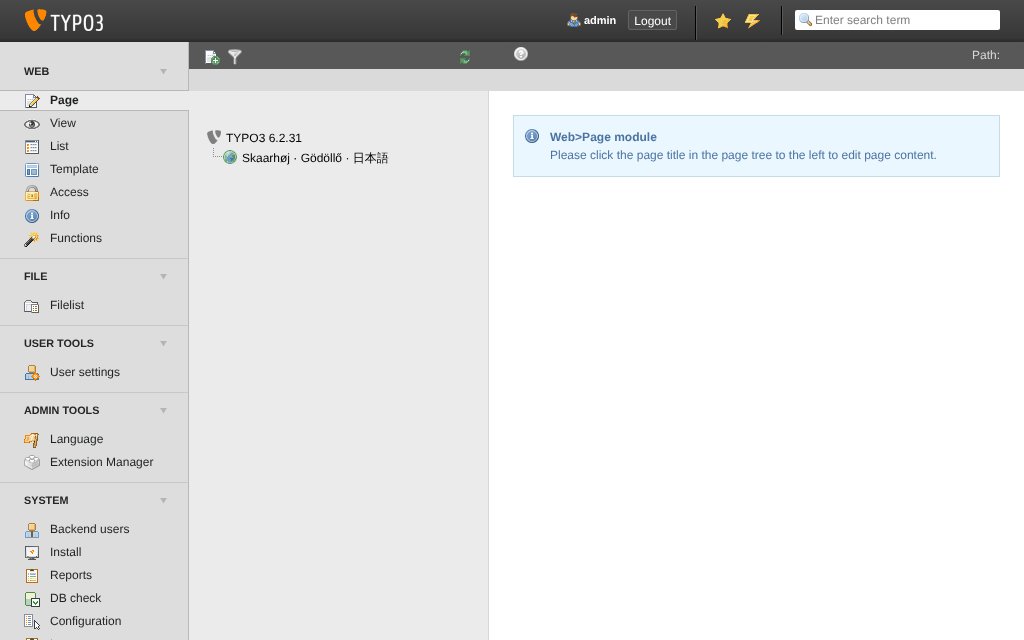
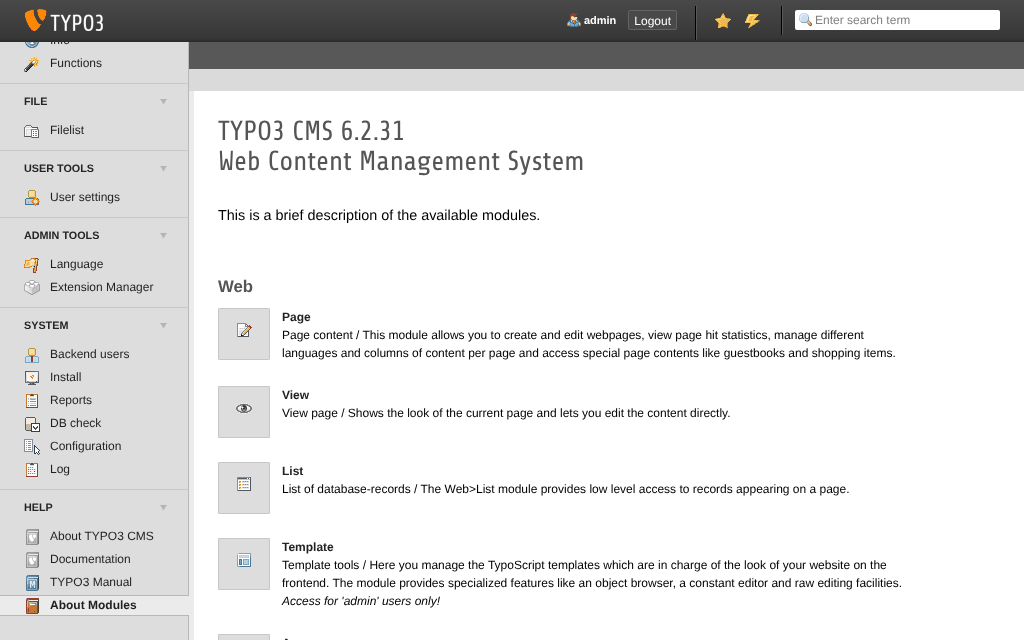
[TASK] Show the About Modules page in  v6.2 capture

diff --git a/site/landing/index.html b/site/landing/index.html
@@ -115,7 +115,7 @@
         <li class="room">
           <h3><img src="marks/mark4-orange-2012.png" alt=""> TYPO3 6.2.31 <small>2017-04-18</small></h3>
           <figure class="shown">
-          <div class="bw chr chr57" role="img" aria-label="Chrome 57 on Windows 7, showing the TYPO3 6.2.31 backend right after login: the module menu on the left, the page tree with the seeded page, and the Page module asking for a page">
+          <div class="bw chr chr57" role="img" aria-label="Chrome 57 on Windows 7, showing the TYPO3 6.2.31 backend: the module menu on the left, scrolled down to Help, and the About Modules page">
             <div class="strip"><span class="tab"><span class="clip">TYPO3 6.2.31 Backend</span><i>x</i></span><span class="newtab"></span><span class="cap"><i>_</i><i>&#9633;</i><i>x</i></span></div>
             <div class="bar"><span class="cb">&larr;</span><span class="cb">&rarr;</span><span class="cb">&#8635;</span><span class="omni"><span class="clip">throwback.mteu.cc/6.2/site/typo3/backend.php</span><span class="star">&#9734;</span></span><span class="menu">&#8801;</span></div>
             <div class="pane capture"><img src="captures/6.2.31-backend.png" alt="" width="1024" height="640" loading="lazy"></div>
